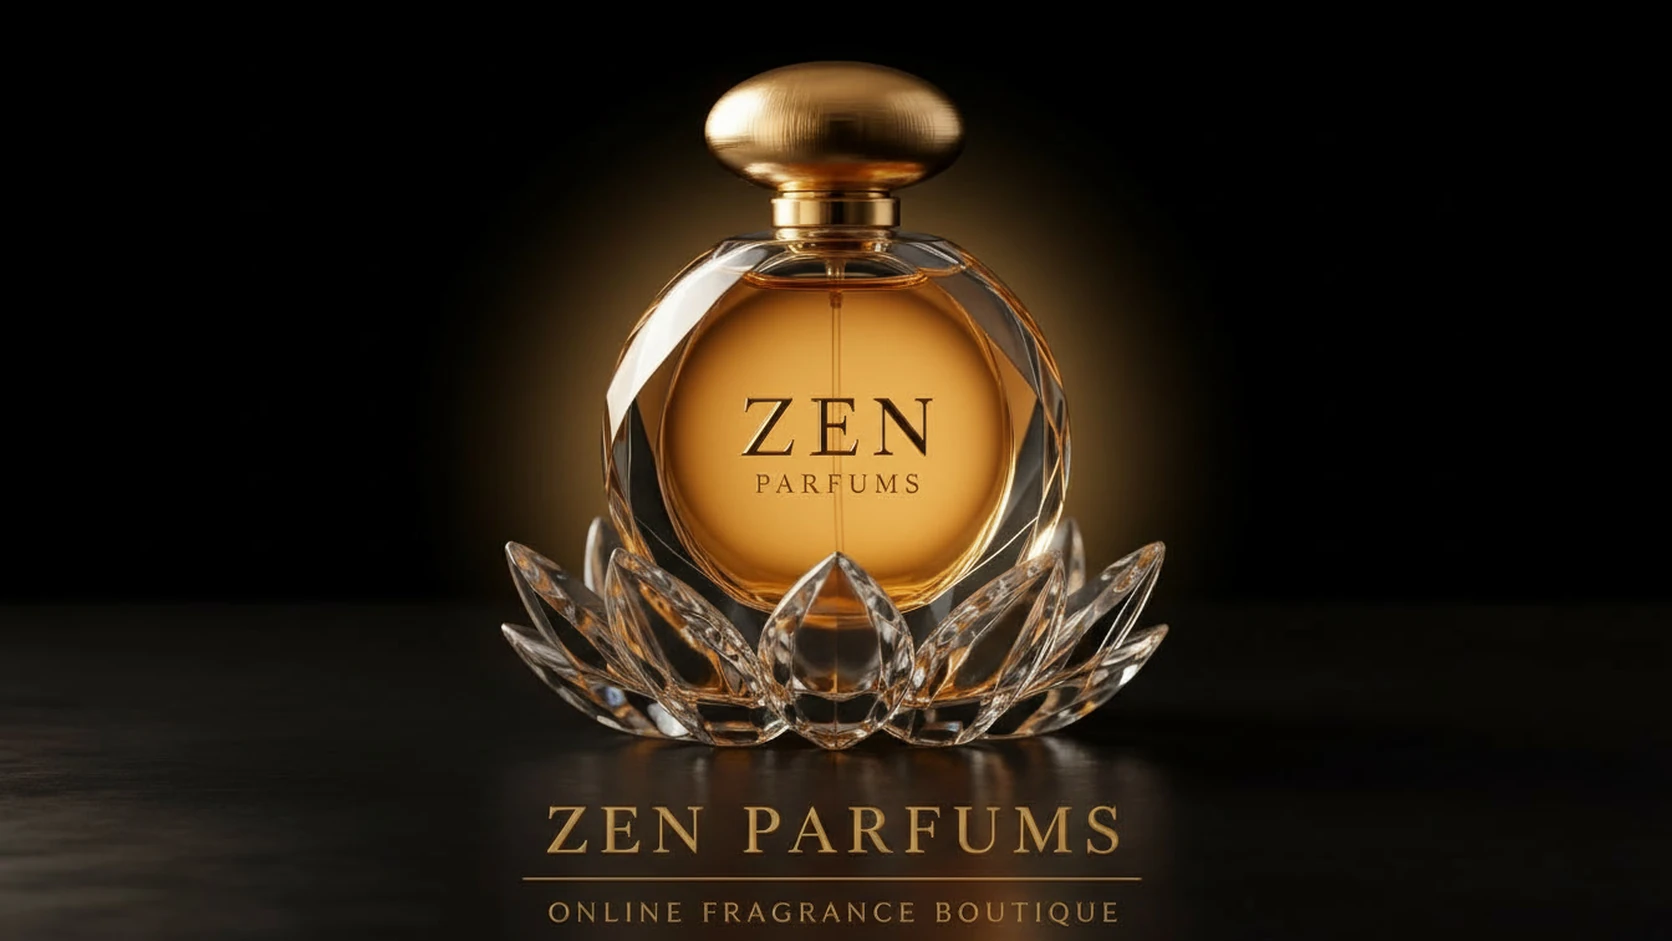
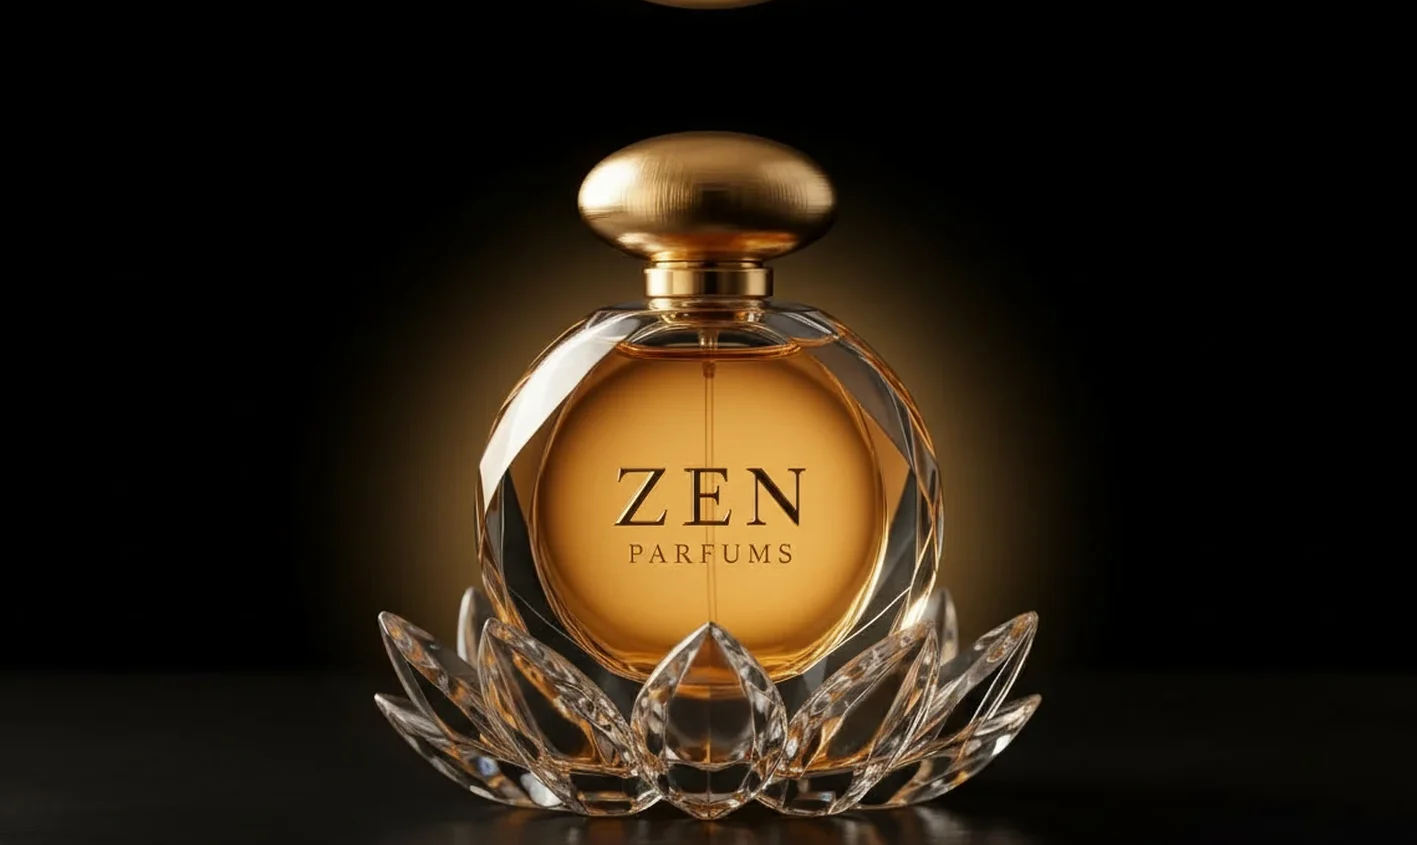
Hero escritorio: fundido lateral con fondo borroso, frasco más grande y pie ZEN PARFUMS en HTML nítido
- Fotos recortadas: sin texto incrustado, frasco ~18% más grande, extensión espejada arriba
- Pie "ZEN PARFUMS / ONLINE FRAGRANCE BOUTIQUE" como texto HTML real bajo la foto
- Costados fundidos contra copia borrosa de la misma foto (mismo archivo, sin descarga extra)
- Transición inferior gradual en modo oscuro; scrim superior eliminado
- Mobile sin cambios

Changed region(s): [[0.2484, 0.0615, 0.7452, 1.0], [0.0, 0.6769, 0.1553, 1.0], [0.4658, 0.0, 0.5279, 0.0308]]

diff --git a/css/styles.css b/css/styles.css
@@ -10,7 +10,7 @@
   --sho:0 6px 24px rgba(184,150,90,.28);
   --e:cubic-bezier(.4,0,.2,1);--t:.28s;--ts:.5s;--es:cubic-bezier(.16,1,.3,1);
   --mw:1280px;
-  --hero-ar:0.5628;--header-h:112px;
+  --hero-ar:0.5963;--header-h:112px;
   --surface-strong:#cdba99;--header-bg:rgba(218,203,177,.96);--hero-start:#f3ebdf;--hero-mid:#ece0cf;--hero-end:#f7f1e7;--hero-overlay:radial-gradient(circle at 20% 20%,rgba(120,120,120,.05),transparent 18%),radial-gradient(circle at 80% 12%,rgba(90,90,90,.04),transparent 22%),radial-gradient(circle at 24% 78%,rgba(150,150,150,.04),transparent 24%),radial-gradient(circle at 76% 72%,rgba(80,80,80,.03),transparent 16%),linear-gradient(135deg,rgba(255,255,255,.08) 0%,rgba(255,255,255,0) 30%,rgba(255,255,255,.05) 52%,rgba(255,255,255,0) 70%,rgba(255,255,255,.04) 100%),linear-gradient(100deg,rgba(255,255,255,.03) 0%,rgba(255,255,255,0) 27%,rgba(255,255,255,.02) 45%,rgba(255,255,255,0) 78%,rgba(255,255,255,.01) 100%);
 }
 body[data-theme="dark"]{
@@ -89,24 +89,39 @@ body:not([data-theme="dark"]) .btn-dk:hover{background:#b68e47}
 .hero{
   overflow:hidden;
   position:relative;
-  max-width:var(--mw);
-  margin:calc(-1 * var(--header-h)) auto 0;
+  margin:calc(-1 * var(--header-h)) 0 0;
 }
 .hero-img{
   display:block;width:100%;height:auto;aspect-ratio:1 / var(--hero-ar);
   -webkit-mask-image:linear-gradient(to right,transparent 0%,#000 24%,#000 76%,transparent 100%);
   mask-image:linear-gradient(to right,transparent 0%,#000 24%,#000 76%,transparent 100%);
 }
-.hero::after{
+.hero-band{position:relative;overflow:hidden}
+.hero-bg{
+  position:absolute;inset:-48px;pointer-events:none;
+  background-image:url(../img/hero-light-desktop-warm.webp?v=5);
+  background-position:center;background-size:cover;
+  filter:blur(38px);transform:scale(1.1);
+}
+body[data-theme="dark"] .hero-bg{background-image:url(../img/hero-dark-desktop.webp?v=6)}
+.hero-media{position:relative;max-width:var(--mw);margin:0 auto}
+.hero-band::after{
   content:"";position:absolute;left:0;right:0;bottom:0;height:80px;pointer-events:none;
   background:
     radial-gradient(ellipse 140px 90px at 0% 100%,var(--ow) 0%,transparent 80%),
     radial-gradient(ellipse 140px 90px at 100% 100%,var(--ow) 0%,transparent 80%),
     linear-gradient(to bottom,transparent 0%,transparent 45%,var(--ow) 100%);
 }
-body[data-theme="light"] .hero::after{height:90px}
-.hero::before{content:"";position:absolute;top:0;left:0;right:0;height:0;pointer-events:none;z-index:1}
-body[data-theme="dark"] .hero::before{height:150px;background:linear-gradient(to bottom,rgba(5,4,2,.6) 0%,rgba(5,4,2,.3) 50%,transparent 100%)}
+body[data-theme="light"] .hero-band::after{height:90px}
+body[data-theme="dark"] .hero-band::after{height:160px;background:linear-gradient(to bottom,transparent 0%,rgba(22,15,10,.55) 55%,#160f0a 100%)}
+.hero-caption{display:flex;flex-direction:column;align-items:center;text-align:center;background:var(--ow);padding:clamp(8px,1vw,16px) 20px clamp(20px,2.6vw,44px);transition:background var(--t) var(--e)}
+.hero-caption-name{font-family:var(--fd);font-size:clamp(30px,3.4vw,58px);font-weight:600;letter-spacing:.13em;text-transform:uppercase;line-height:1.1;color:#9f752c}
+.hero-caption-line{width:min(540px,35vw);height:1px;margin:clamp(6px,.7vw,12px) 0 clamp(8px,.9vw,14px);background:linear-gradient(to right,transparent,#ab8438 15%,#ab8438 85%,transparent)}
+.hero-caption-sub{font-family:var(--fd);font-size:clamp(12px,1.1vw,19px);font-weight:500;letter-spacing:.42em;text-transform:uppercase;text-indent:.42em;color:#8d6827}
+body[data-theme="dark"] .hero-caption{background:linear-gradient(to bottom,#160f0a 0%,var(--ow) 92%)}
+body[data-theme="dark"] .hero-caption-name{color:#d6b06a}
+body[data-theme="dark"] .hero-caption-line{background:linear-gradient(to right,transparent,#b9924a 15%,#b9924a 85%,transparent)}
+body[data-theme="dark"] .hero-caption-sub{color:#c3a060}
 .hero-r{display:none}
 .hdot{position:absolute;border-radius:50%;background:var(--go);opacity:.12;animation:fdot 6s ease-in-out infinite}
 .hdot:nth-child(1){width:8px;height:8px;top:20%;left:15%}
@@ -467,7 +482,7 @@ body[data-theme="dark"] .pm-ficha-ico:hover{background:#c89d4d !important;color:
 /* RESPONSIVE */
 @media(max-width:1100px){.pg{grid-template-columns:repeat(3,1fr)}.cg{grid-template-columns:repeat(3,1fr)}.sg{grid-template-columns:repeat(2,1fr)}}
 @media(max-width:960px){.ft{grid-template-columns:1fr 1fr}.tg2{grid-template-columns:1fr}}
-@media(max-width:768px){:root{--hero-ar:0.9286}.sec{padding:56px 20px}.site-header-links{display:none}.site-burger{display:flex}.site-header-actions .theme-toggle{display:none}.cg{grid-template-columns:repeat(2,1fr);gap:10px}.pg{grid-template-columns:repeat(2,1fr);gap:12px}.pc-bd{padding:14px}.bg3{grid-template-columns:1fr;gap:16px}.sg{grid-template-columns:repeat(2,1fr);gap:16px}.ft{grid-template-columns:1fr;gap:32px}.fb2{flex-direction:column;gap:8px;text-align:center}.tbar-in{flex-direction:row;flex-wrap:wrap}.ti{max-width:100%}.ti+.ti{border-left:1px solid var(--lg)}.pc-ft{flex-direction:column;align-items:stretch;gap:10px}.pc-seg{width:100%;max-width:100%}.pc-seg-i{flex:1 1 0;min-width:0;width:auto;height:40px}.pc-seg .pw,.pc-seg .badd{width:auto;height:40px}.ctrl-row{flex-direction:column;align-items:stretch;gap:20px;max-width:480px}.ctrl-row .srch-wrap{flex:none}.sort-bar{flex-direction:column;align-items:stretch;gap:8px}.sort-lb{text-align:center}.sel-wrap{width:100%}.sel-sort{width:100%;min-width:0}}
+@media(max-width:768px){:root{--hero-ar:0.9286}.hero-caption{display:none}.hero-bg{display:none}.sec{padding:56px 20px}.site-header-links{display:none}.site-burger{display:flex}.site-header-actions .theme-toggle{display:none}.cg{grid-template-columns:repeat(2,1fr);gap:10px}.pg{grid-template-columns:repeat(2,1fr);gap:12px}.pc-bd{padding:14px}.bg3{grid-template-columns:1fr;gap:16px}.sg{grid-template-columns:repeat(2,1fr);gap:16px}.ft{grid-template-columns:1fr;gap:32px}.fb2{flex-direction:column;gap:8px;text-align:center}.tbar-in{flex-direction:row;flex-wrap:wrap}.ti{max-width:100%}.ti+.ti{border-left:1px solid var(--lg)}.pc-ft{flex-direction:column;align-items:stretch;gap:10px}.pc-seg{width:100%;max-width:100%}.pc-seg-i{flex:1 1 0;min-width:0;width:auto;height:40px}.pc-seg .pw,.pc-seg .badd{width:auto;height:40px}.ctrl-row{flex-direction:column;align-items:stretch;gap:20px;max-width:480px}.ctrl-row .srch-wrap{flex:none}.sort-bar{flex-direction:column;align-items:stretch;gap:8px}.sort-lb{text-align:center}.sel-wrap{width:100%}.sel-sort{width:100%;min-width:0}}
 @media(max-width:480px){
 :root{--header-h:94px}
 .hdot{display:none}

diff --git a/index.html b/index.html
@@ -24,7 +24,7 @@
 <link rel="preconnect" href="https://fonts.googleapis.com">
 <link rel="preconnect" href="https://fonts.gstatic.com" crossorigin>
 <link href="https://fonts.googleapis.com/css2?family=Cormorant+Garamond:ital,wght@0,300;0,400;0,500;1,300;1,400&family=Inter:wght@300;400;500;600&display=swap" rel="stylesheet">
-<link rel="stylesheet" href="css/styles.css?v=29">
+<link rel="stylesheet" href="css/styles.css?v=34">
 <link rel="stylesheet" href="css/producto.css?v=1">
 <script defer src="js/promo.js?v=3"></script>
 <script defer src="js/producto.js?v=3"></script>
@@ -83,7 +83,17 @@
 
 <h1 style="position:absolute;width:1px;height:1px;margin:-1px;overflow:hidden;clip:rect(0 0 0 0);white-space:nowrap">Zen Parfums — Perfumes originales árabes e internacionales</h1>
 <section class="hero">
-  <img class="hero-img" id="heroImg" alt="Zen Parfums — Online Fragrance Boutique" fetchpriority="high">
+  <div class="hero-band">
+    <div class="hero-bg"></div>
+    <div class="hero-media">
+      <img class="hero-img" id="heroImg" alt="Zen Parfums — Online Fragrance Boutique" fetchpriority="high">
+    </div>
+  </div>
+  <div class="hero-caption" aria-hidden="true">
+    <span class="hero-caption-name">Zen Parfums</span>
+    <span class="hero-caption-line"></span>
+    <span class="hero-caption-sub">Online Fragrance Boutique</span>
+  </div>
 </section>
 
 <div class="cm-banner" id="cmBanner" hidden>
@@ -295,7 +305,7 @@
 <div class="notif" id="notif"><span class="nico">&#10003;</span><span id="ntxt">Agregado</span></div>
 
 <script src="js/data.js?v=9"></script>
-<script src="js/theme.js?v=4"></script>
+<script src="js/theme.js?v=7"></script>
 <script src="js/cart.js?v=6"></script>
 <script src="js/wishlist.js?v=7"></script>
 <script src="js/mobmenu.js?v=2"></script>

diff --git a/js/theme.js b/js/theme.js
@@ -1,6 +1,6 @@
 (function(){
   var HERO_SRC = {
-    desktop: {dark:"img/hero-dark-desktop.webp?v=3", light:"img/hero-light-desktop-warm.webp?v=2"},
+    desktop: {dark:"img/hero-dark-desktop.webp?v=6", light:"img/hero-light-desktop-warm.webp?v=5"},
     mobile: {dark:"img/hero-dark-mobile.webp?v=3", light:"img/hero-light-mobile.webp?v=6"}
   };
   function updateHeroImage(theme){
